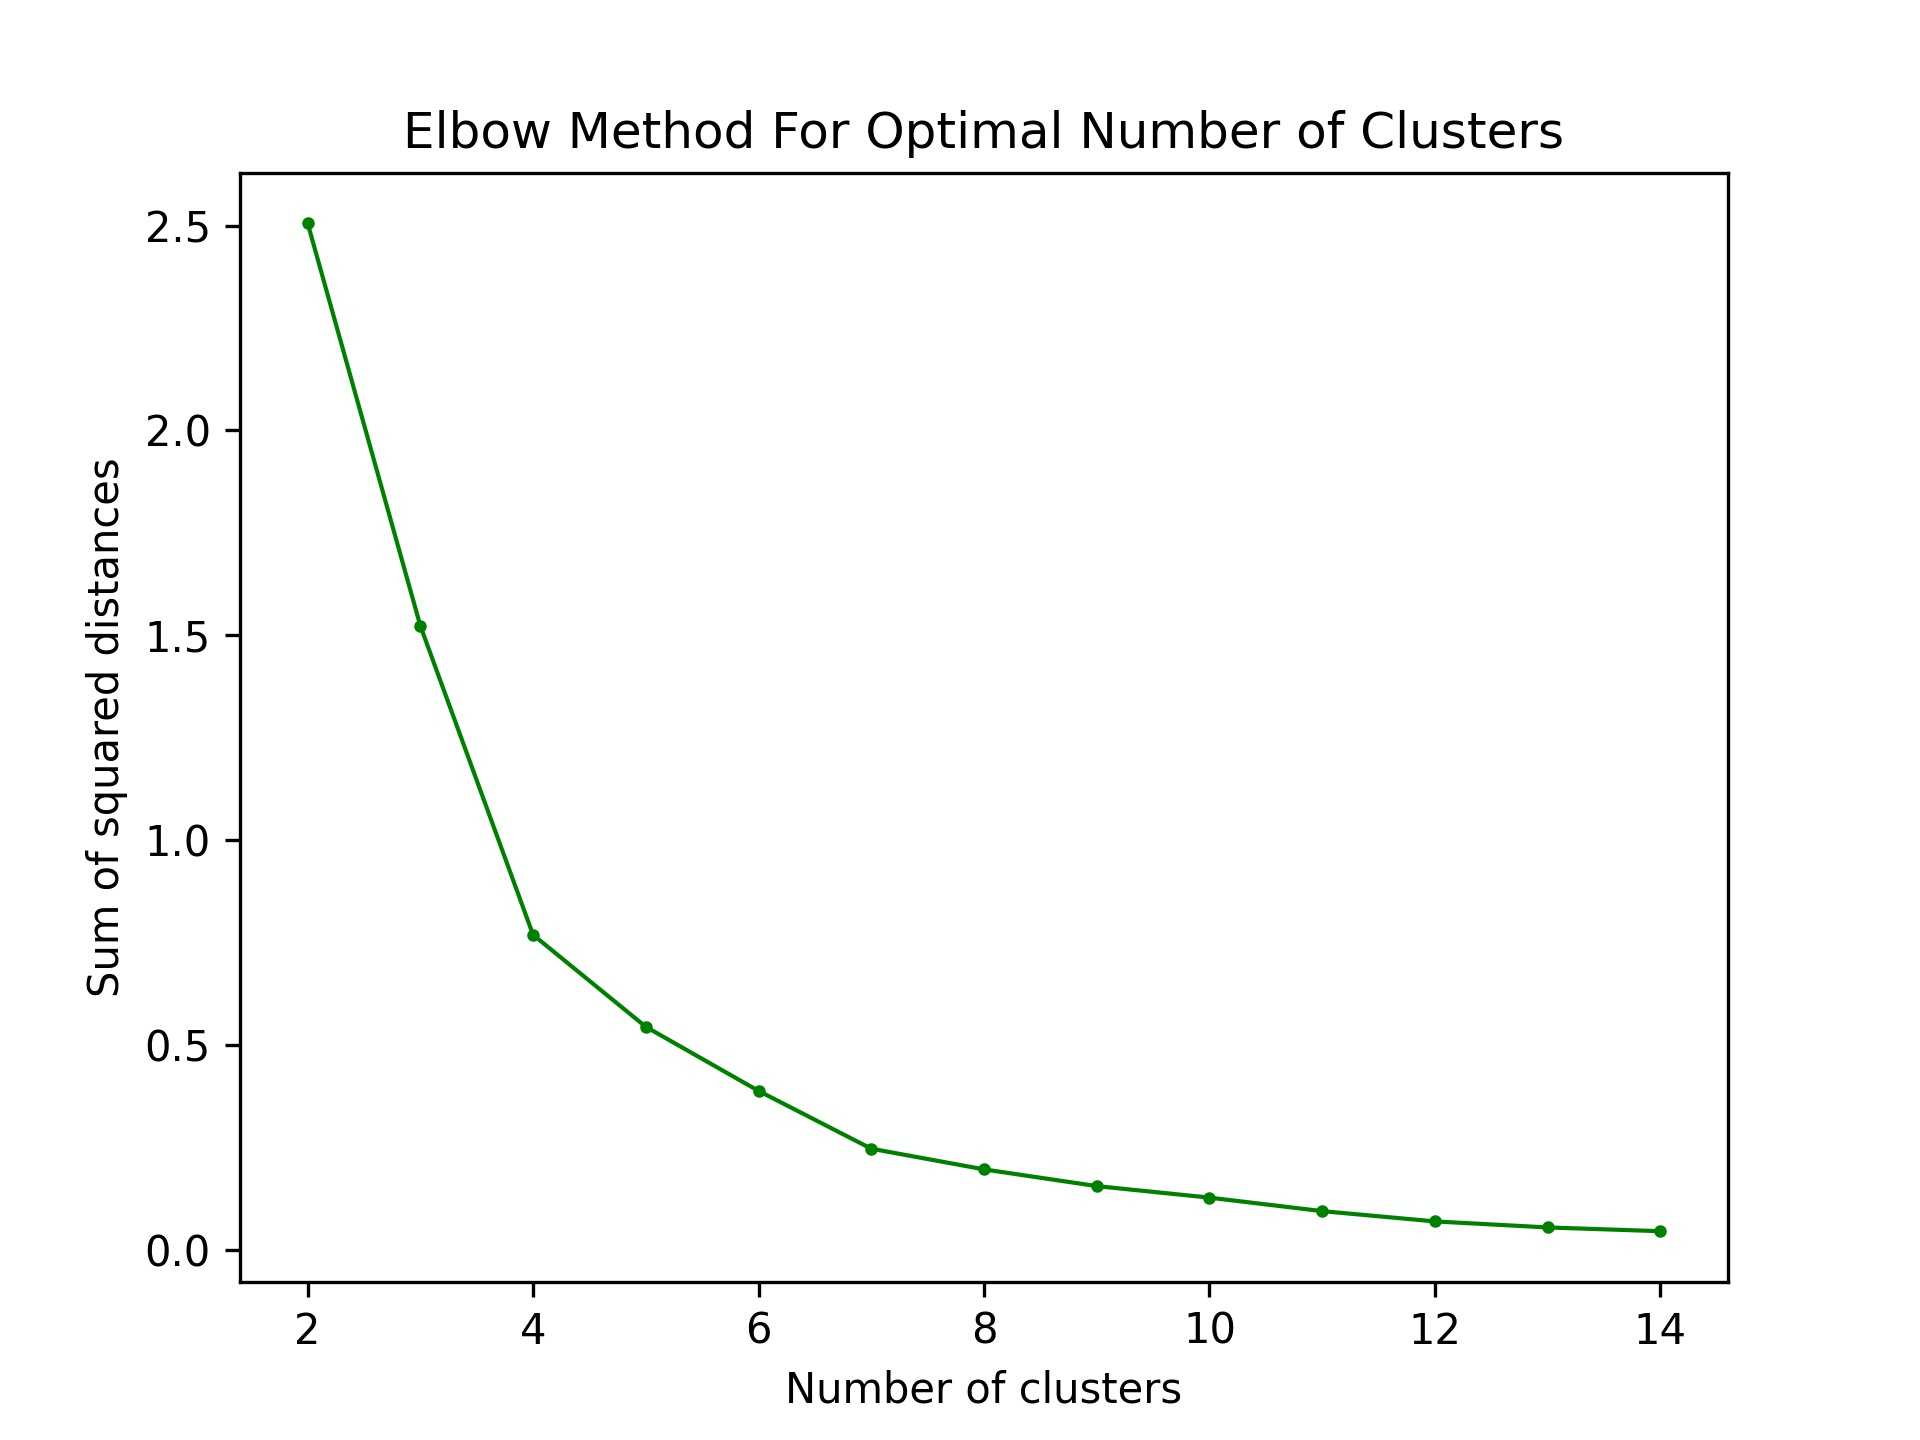
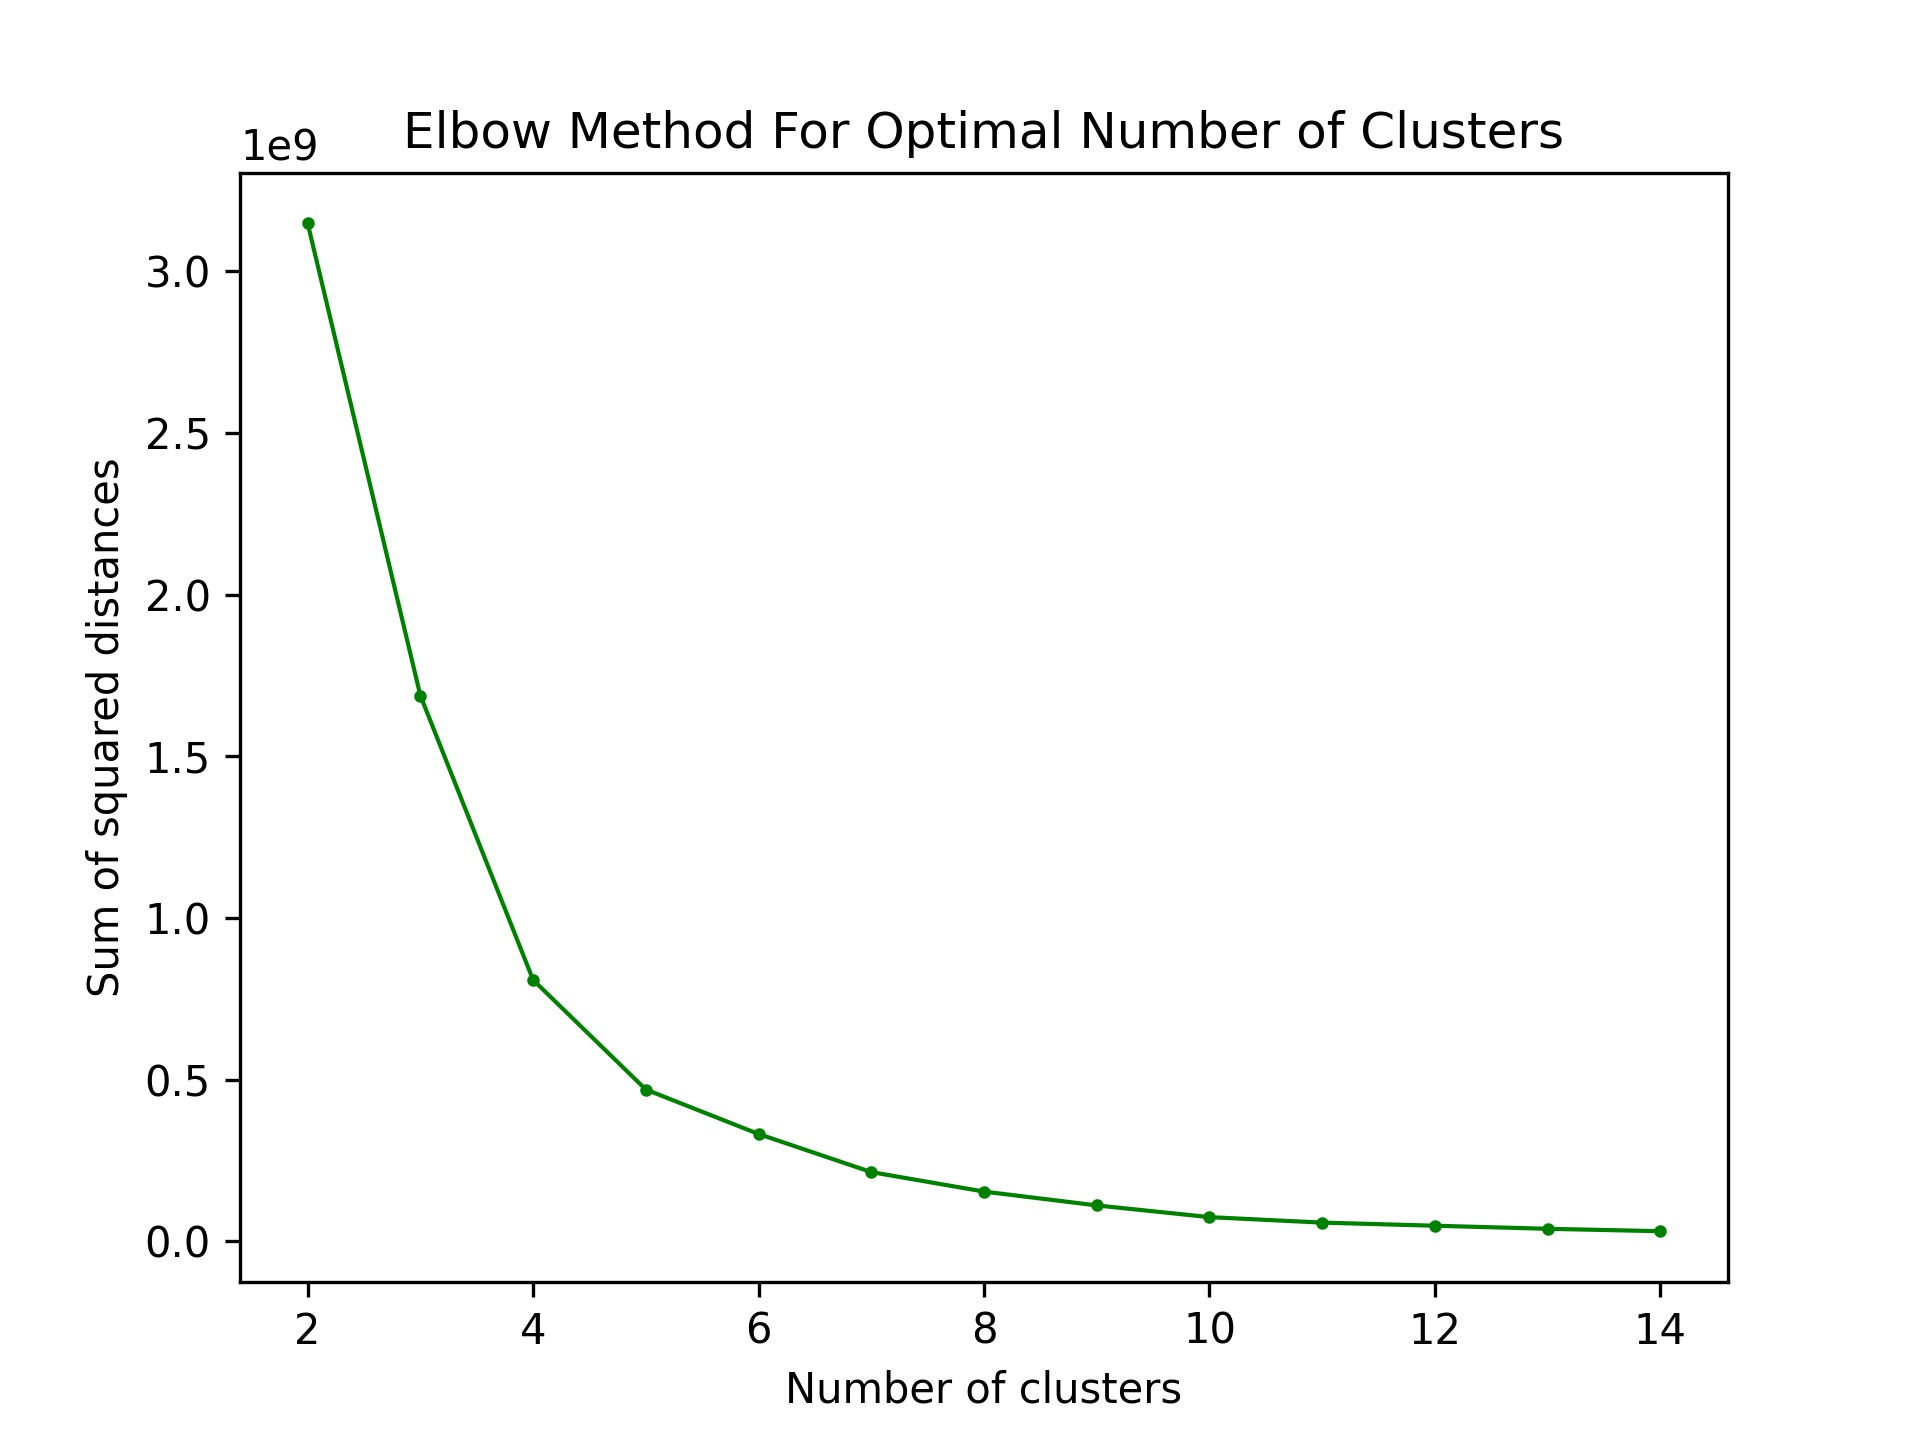
updated classifier

diff --git a/main/classification.py b/main/classification.py
@@ -35,11 +35,32 @@ locs_2019['mineral_count'] = pd.to_numeric(locs_2019['mineral_count'])
 
 curr_locs = locs_2019.to_numpy()
 
+locs_flat = np.array([], dtype=int)
+
+for index, row in locs_2019.iterrows():
+    minerals = row['mineral_count']
+    localities = row['locality_counts_2019']
+
+    if minerals > 1:
+        arr = np.empty(int(minerals))
+        arr.fill(localities)
+        locs_flat = np.append(locs_flat, arr)
+
+    else:
+        locs_flat = np.append(locs_flat, localities)
+
+
+plt.hist(locs_flat, density=True, bins=1000)
+plt.axis([0, 5000, 0, 2000])
+plt.margins(tight=True)
+plt.gca().set(title='Frequency Histogram', ylabel='Frequency')
 
 # Transform features by scaling each feature to a (0, 1)
 
 scaler = StandardScaler()
-curr_locs_transformed = scaler.fit_transform(curr_locs)
+curr_locs_transformed = scaler.fit_transform(locs_flat.reshape(-1, 1))
+
+curr_locs_transformed = locs_flat.reshape(-1, 1)
 
 
 # Find optimum number of clusters
